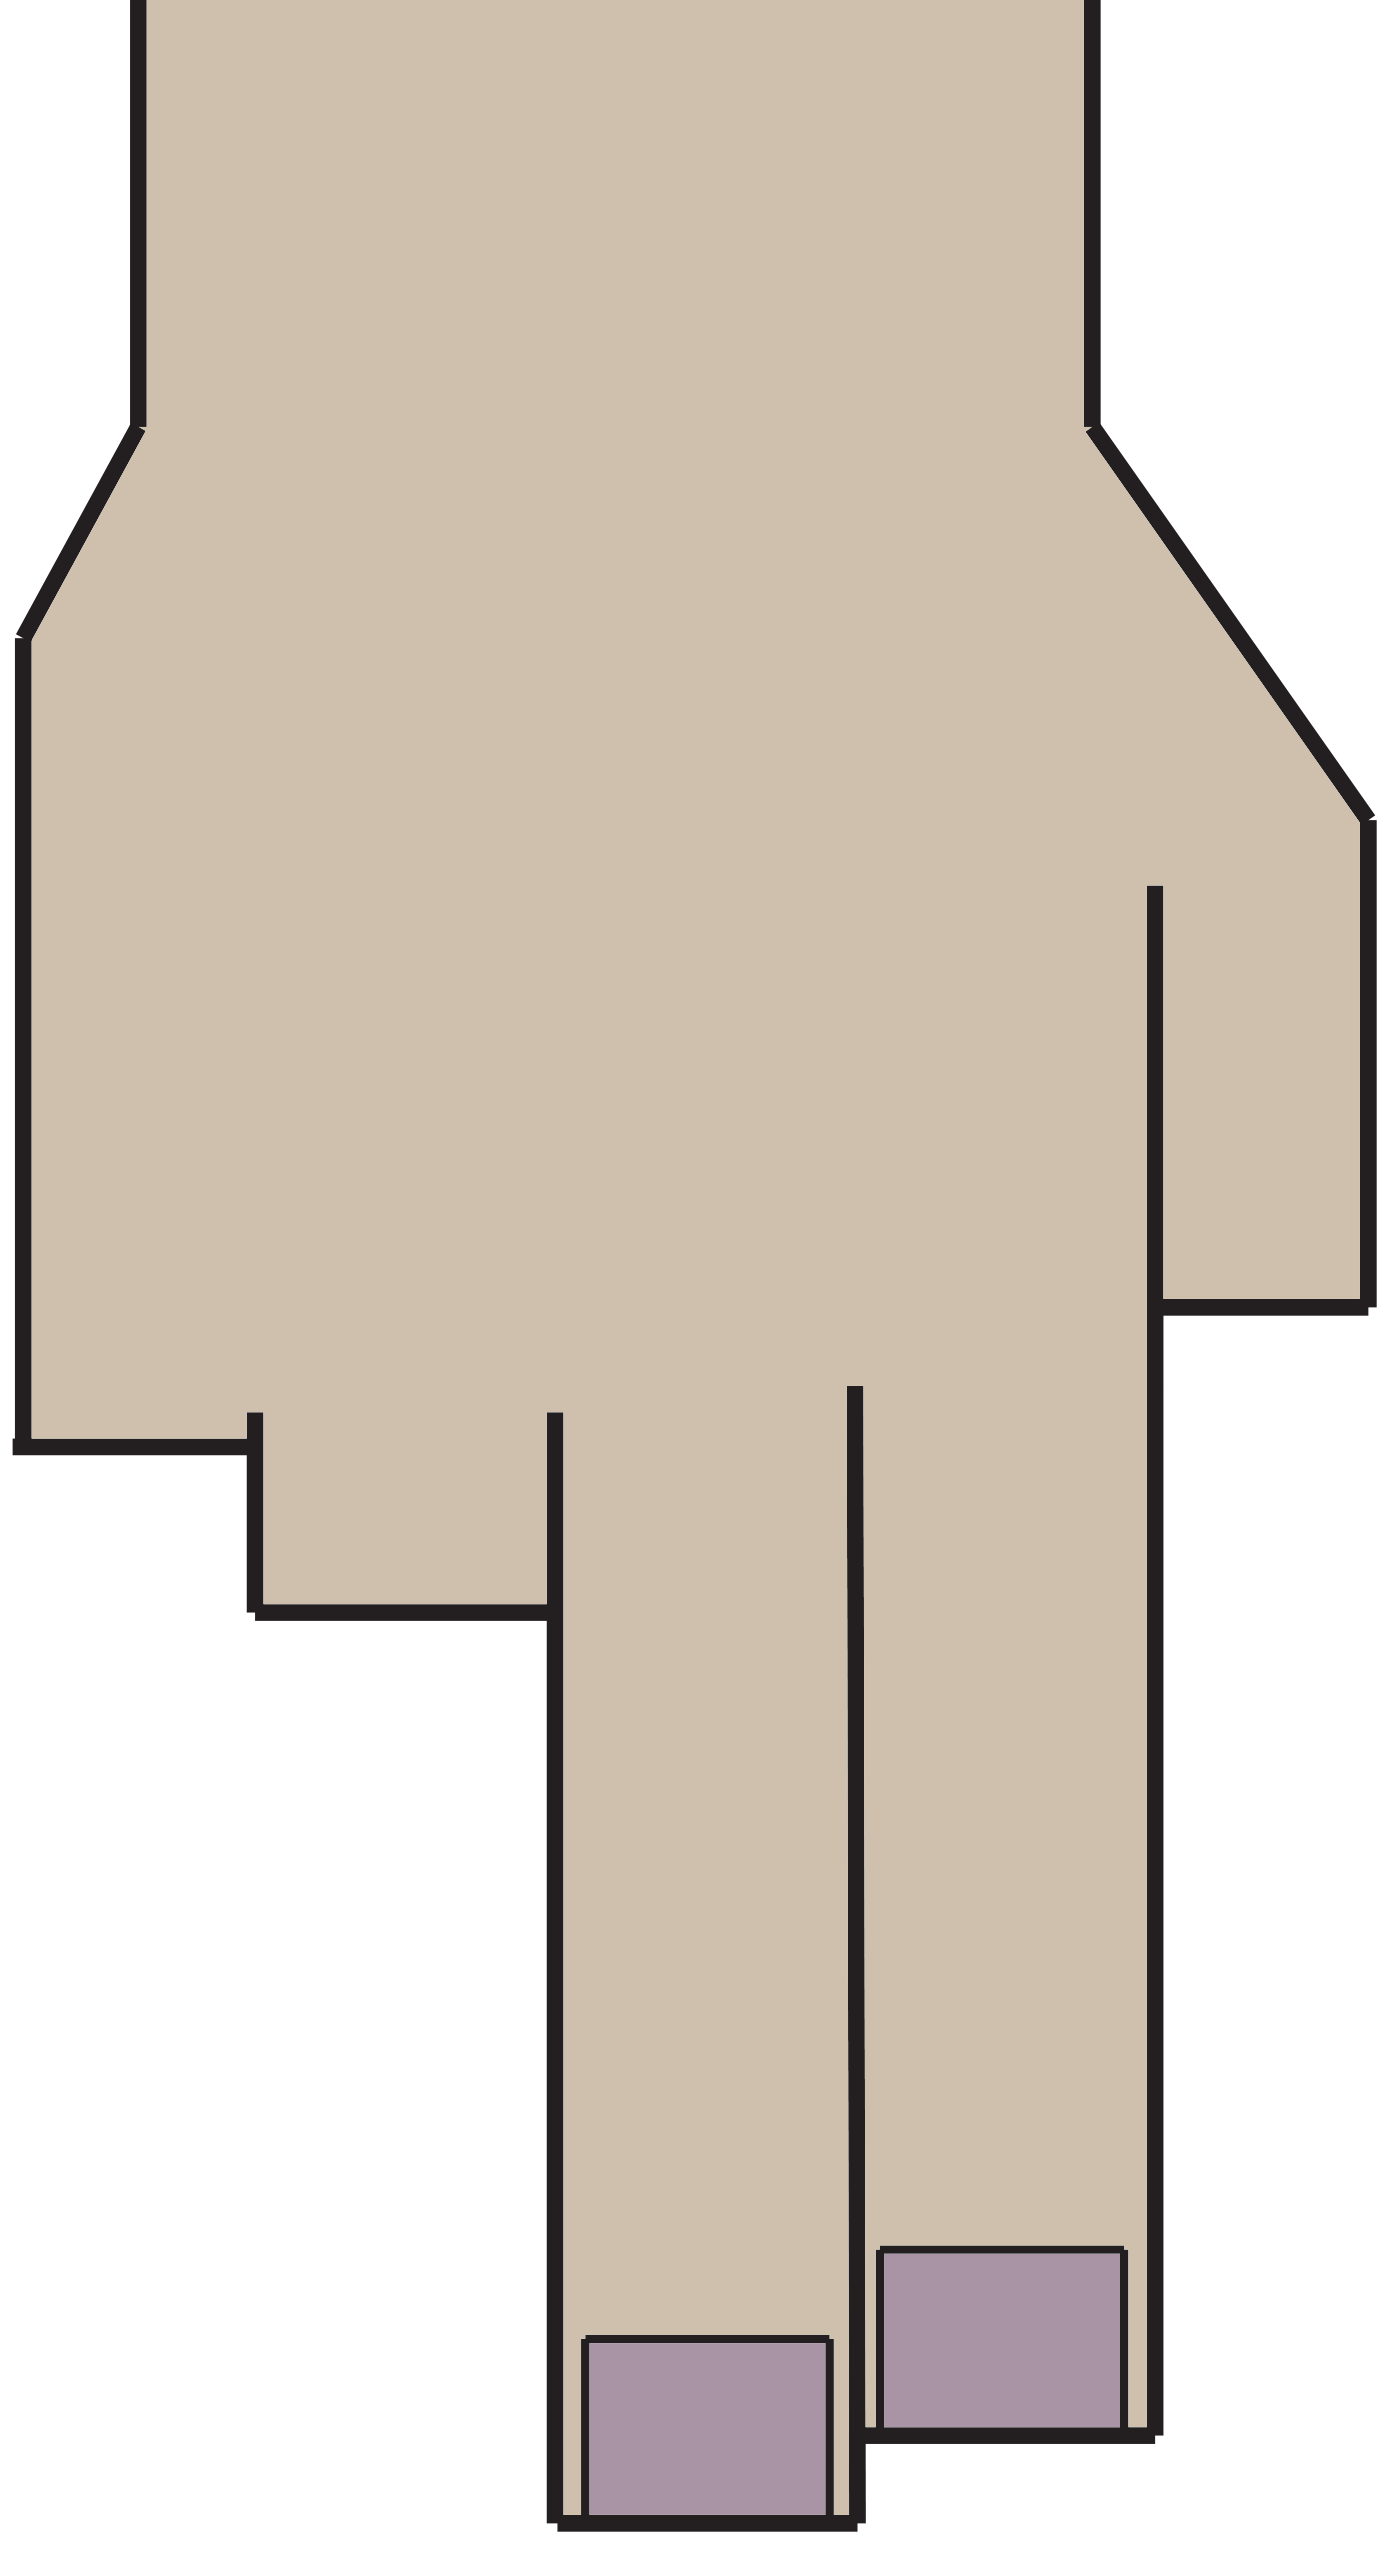
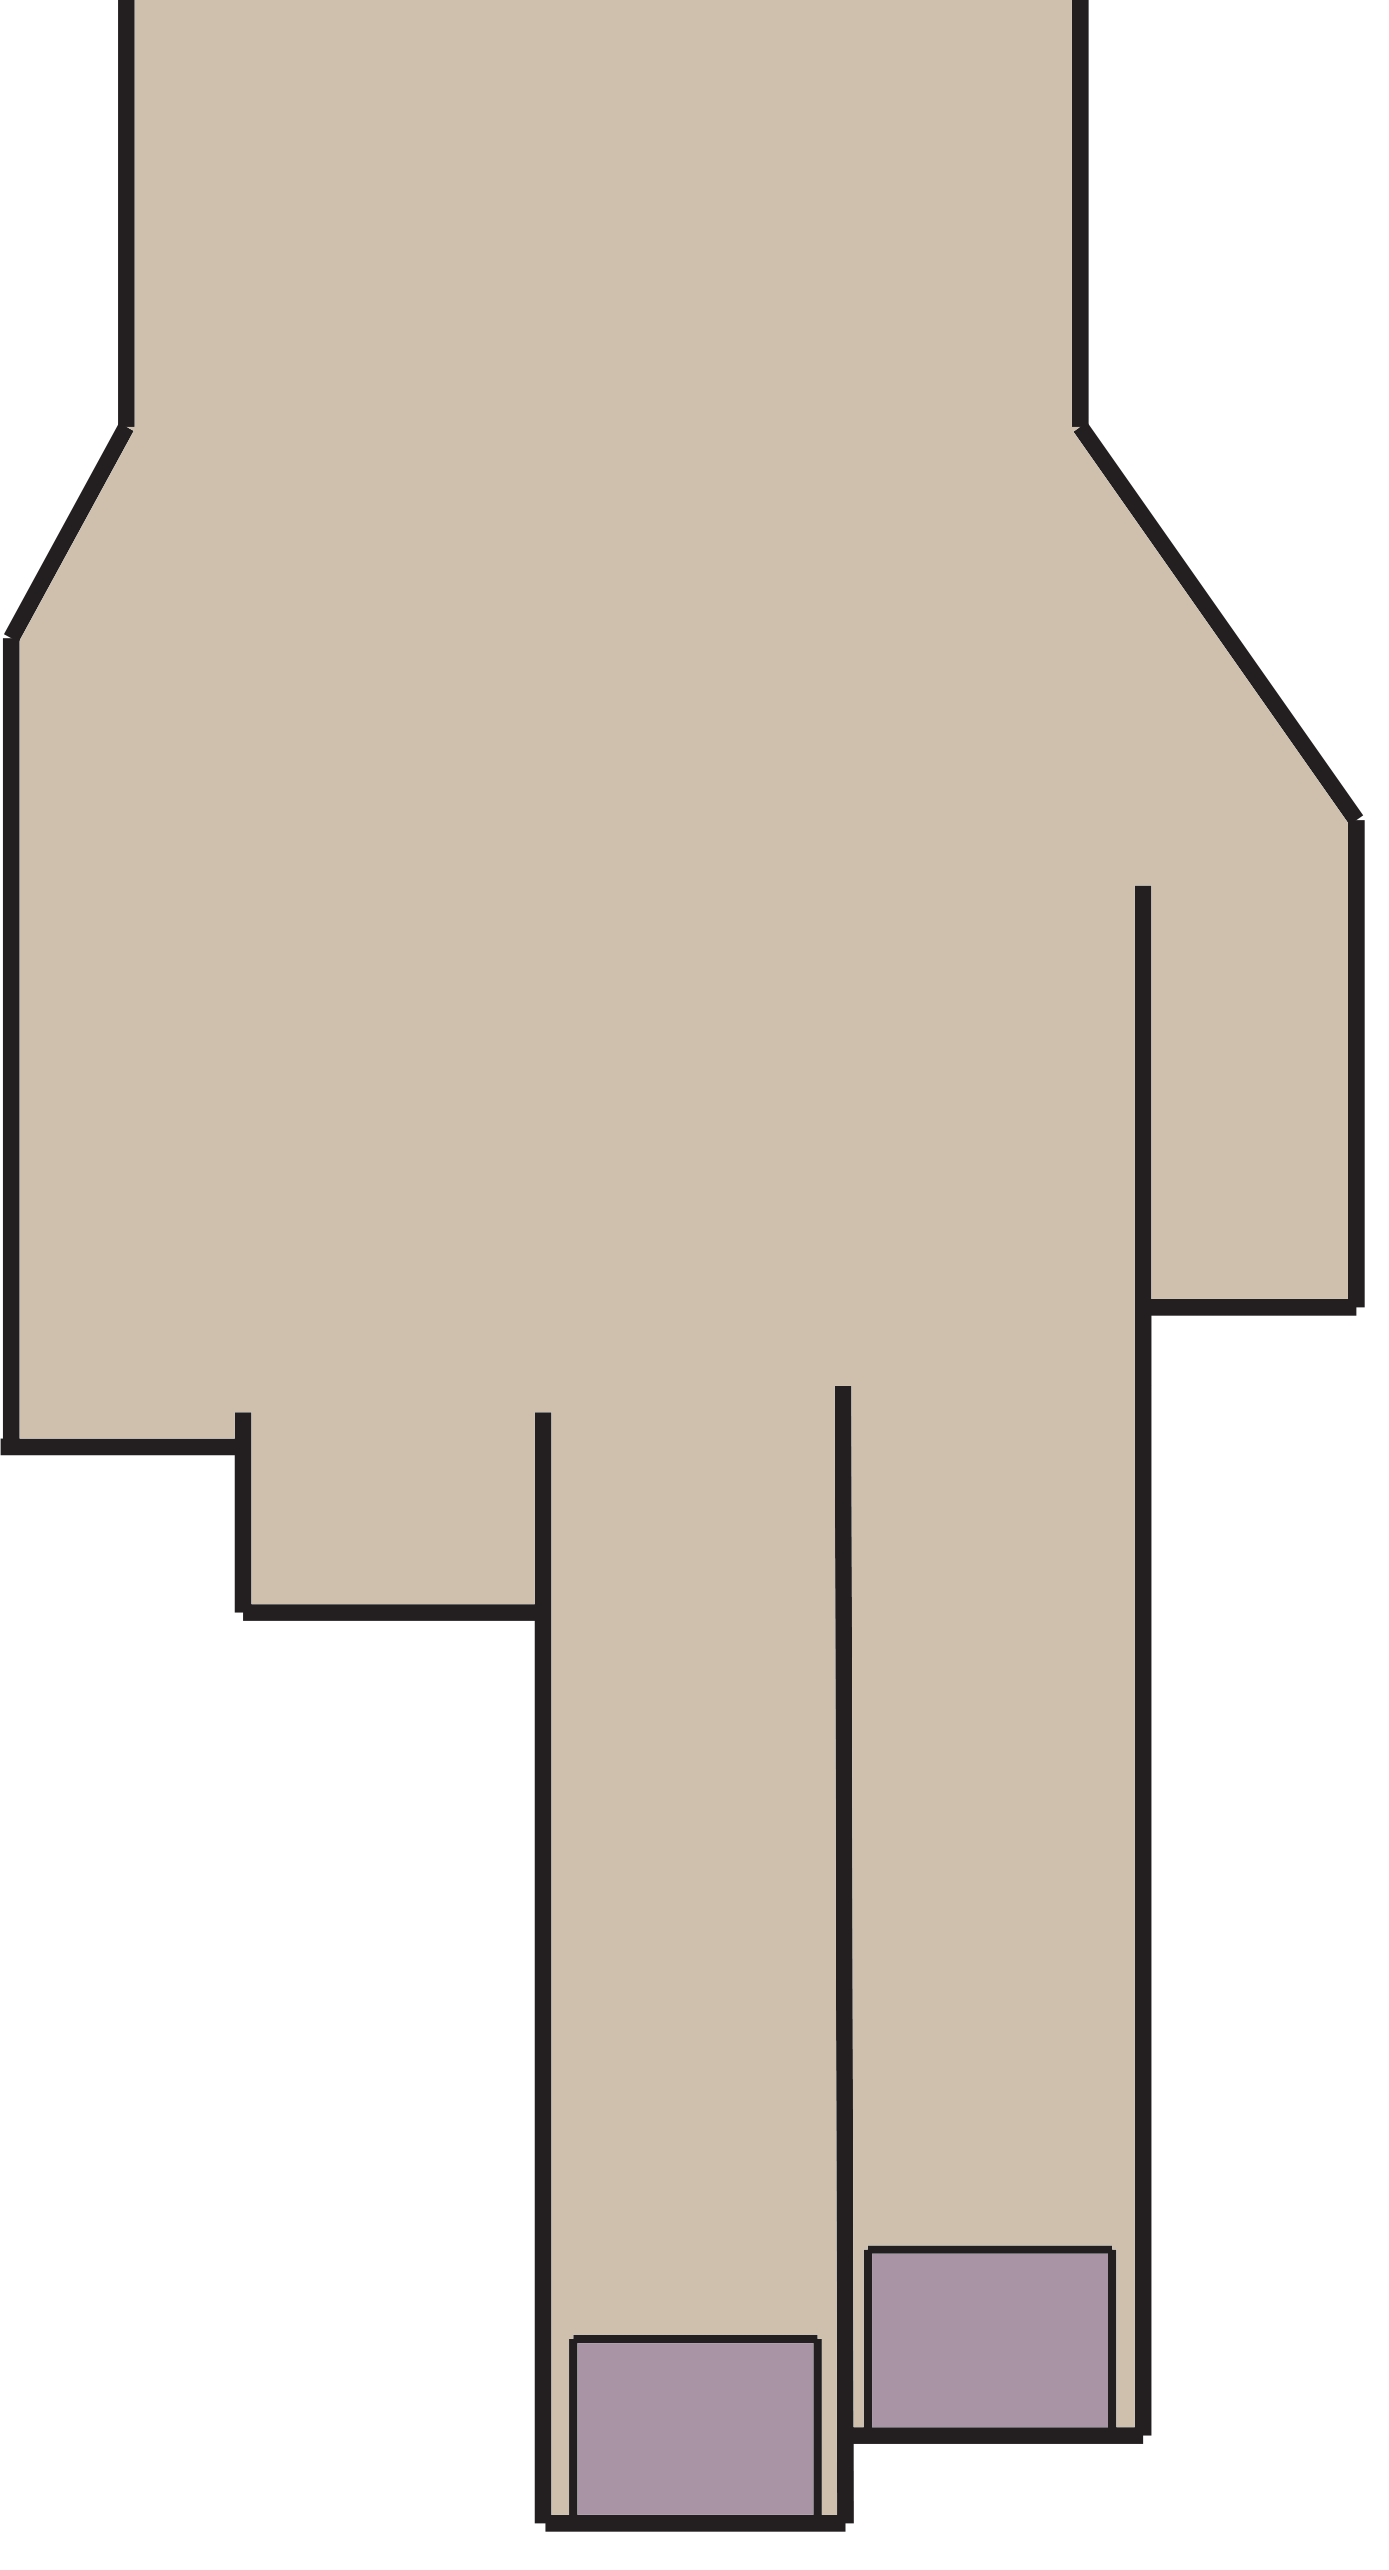
updated pictures and added randomization to which player goes first

diff --git a/apps.js b/apps.js
@@ -7,25 +7,26 @@ var playerTwo = {
     left3:'<img src="img/bleft-three.png" >',
     left4:'<img src="img/bleft-four.png" >',
     left5:'<img src="img/bleft-five.png" >'
-  },
-  bottomRight:{
-    right1:'<img src="img/bright-one.png" >',
-    right2:'<img src="img/bright-two.png" >',
-    right3:'<img src="img/bright-three.png" >',
-    right4:'<img src="img/bbright-four.png" >',
-    right5:'<img src="img/bright-five.png" >'
   }
+  // },
+  // bottomRight:{
+  //   right1:'<img src="img/bright-one.png" >',
+  //   right2:'<img src="img/bright-two.png" >',
+  //   right3:'<img src="img/bright-three.png" >',
+  //   right4:'<img src="img/bbright-four.png" >',
+  //   right5:'<img src="img/bright-five.png" >'
+  // }
 }
 var playerOne = {
   name: 'Player One',
   backgroundColor: 'red',
-  topRight:{
-    right1:'<img src="img/tright-one.png" >',
-    right2:'<img src="img/tright-two.png" >',
-    right3:'<img src="img/tright-three.png" >',
-    right4:'<img src="img/tbright-four.png" >',
-    right5:'<img src="img/tright-five.png" >'
-  },
+  // topRight:{
+  //   right1:'<img src="img/tright-one.png" >',
+  //   right2:'<img src="img/tright-two.png" >',
+  //   right3:'<img src="img/tright-three.png" >',
+  //   right4:'<img src="img/tbright-four.png" >',
+  //   right5:'<img src="img/tright-five.png" >'
+  // },
   topLeft: {
     left1:'<img src="img/tleft-one.png" >',
     left2:'<img src="img/tleft-two.png" >',
@@ -39,31 +40,35 @@ var gameBoard = $('.game-board')
 var timer = $('#timer')
 var count = 20;
 var bottomLeft = $('#bottom-left')
-var bottomRight = $('#bottom-right')
-var topRight = $('#top-right')
+// var bottomRight = $('#bottom-right')
+// var topRight = $('#top-right')
 var topLeft = $('#top-left')
+var players = [
+  playerOne, playerTwo
+]
 
-var currentPlayer = playerOne.name
+var currentPlayer = players[Math.round(Math.random())].name
+
+//use Math.round(Math.random()) to determine a random first player
 
 gameBoard.on('click', playerTurn)
 
 function playerTurn(){
-  // console.log('turn')
-  $('#turn').text("It's " + currentPlayer.name + "'s Turn!")
+  $('#turn').text(currentPlayer + " gets to start!")
 
-  switchTurns()
+  //switchTurns()
 }
 
-function switchTurns(){
-  if (currentPlayer == playerOne){
-    currentPlayer = playerTwo
-    bottomLeft.css('backgroundColor', 'blue')
-  } else{
-    currentPlayer = playerOne
-    topLeft.css('backgroundColor', 'red')
-
-  }
-}
+// function switchTurns(){
+//   if (currentPlayer == playerOne){
+//     currentPlayer = playerTwo
+//     bottomLeft.css('backgroundColor', 'blue')
+//   } else{
+//     currentPlayer = playerOne
+//     topLeft.css('backgroundColor', 'red')
+//
+//   }
+// }
 
 function countDown(){
   timer.text('Time Left :' + count)
@@ -80,43 +85,26 @@ $('button').on('click',function(){
 })
 
 bottomLeft.on('click', increaseBLHands)
-// bottomRight.on('click',increaseBRHands)
 topLeft.on('click', increaseTLHands)
-// topRight.on('click', increaseTRHands)
-
 
 function increaseBLHands(){
 
+  if(topLeft.html(playerOne.topLeft.left3)){
+    bottomLeft.on('click', function(){
+      bottomLeft.html(playerTwo.bottomLeft.left5)
+    })
+  }
+}
+
+function increaseTLHands(){
   if(topLeft.html(playerOne.topLeft.left1)){
-    bottomLeft.on('click',function(){
+    bottomLeft.on('click', function(){
        bottomLeft.html(playerTwo.bottomLeft.left2)
      })
   }
-  // if(topLeft.html(playerOne.topLeft.left)){
-  //   bottomLeft.html(playerTwo.bottomLeft.left5)
-  //
-  // }
-}
-
-
-
-function increaseTLHands(){
-  if (bottomLeft.html(playerTwo.bottomLeft.left1)){
+  if (bottomLeft.html(playerTwo.bottomLeft.left2)){
     topLeft.on('click', function(){
-      topLeft.html(playerOne.topLeft.leftTwo)
+      topLeft.html(playerOne.topLeft.left3)
     })
   }
-  // if (bottomLeft.html(playerTwo.bottomLeft.left2)){
-  //   topLeft.on('click', function(){
-  //     topLeft.html(playerOne.topLeft.leftThre)
-  //   })
-  // }
 }
-
-
-// function increaseBRHands(){
-//     bottomRight.html(playerTwo.bottomRight.rightTwo)
-// }
-// function increaseTRHands(){
-//   topRight.html(playerOne.topRight.rightTwo)
-// }
